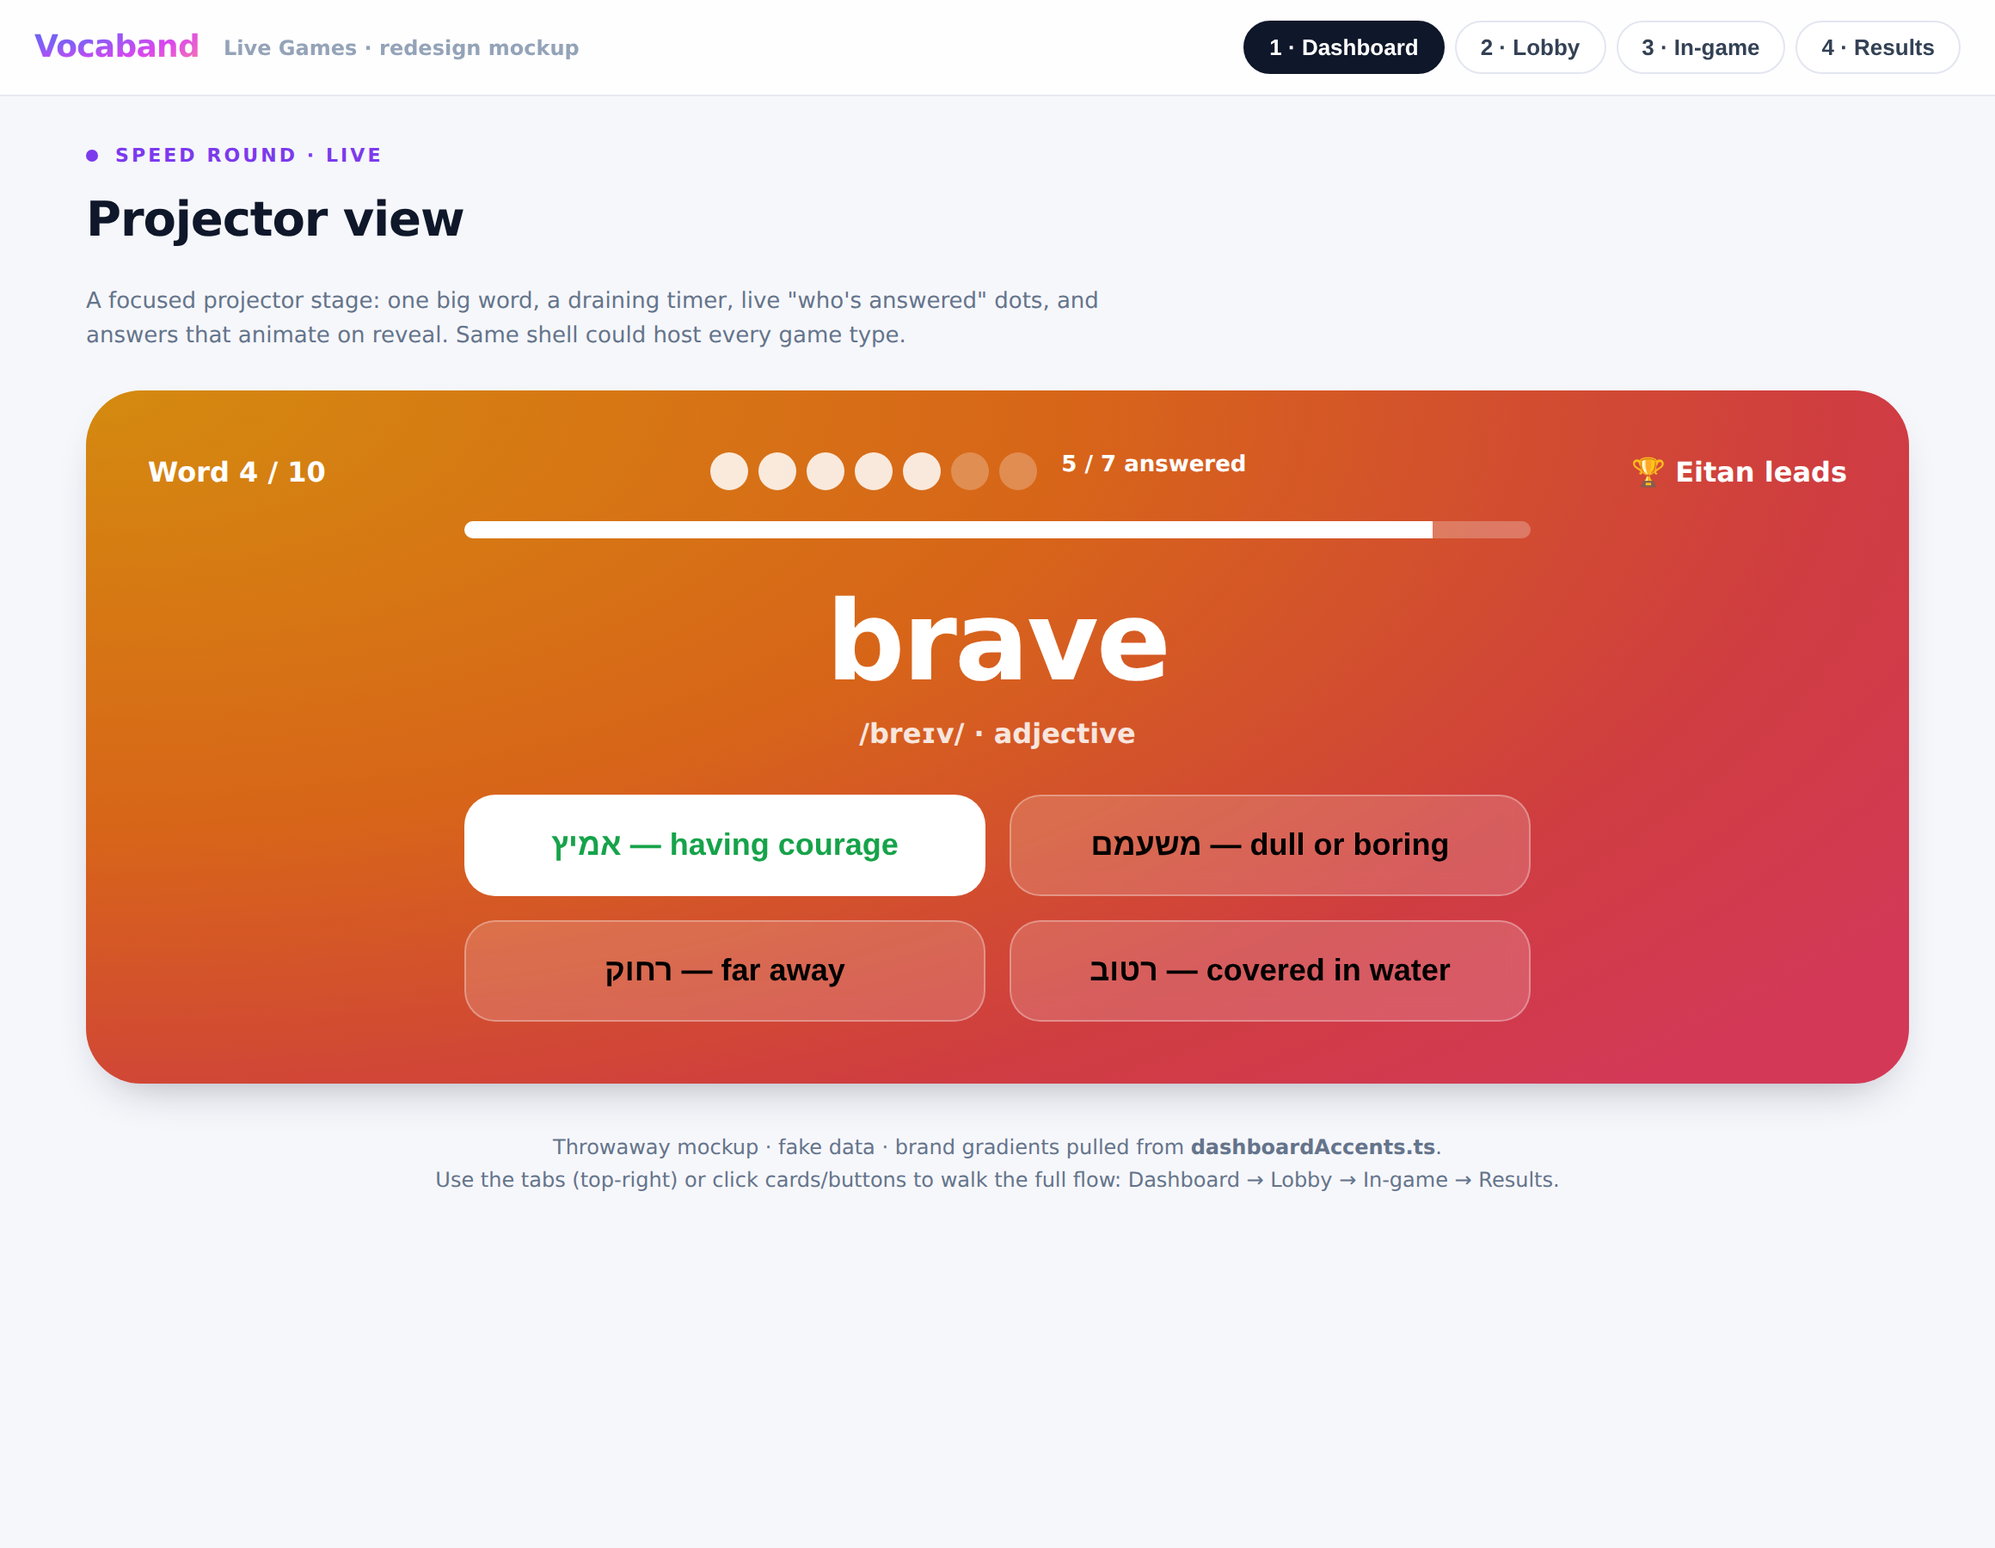
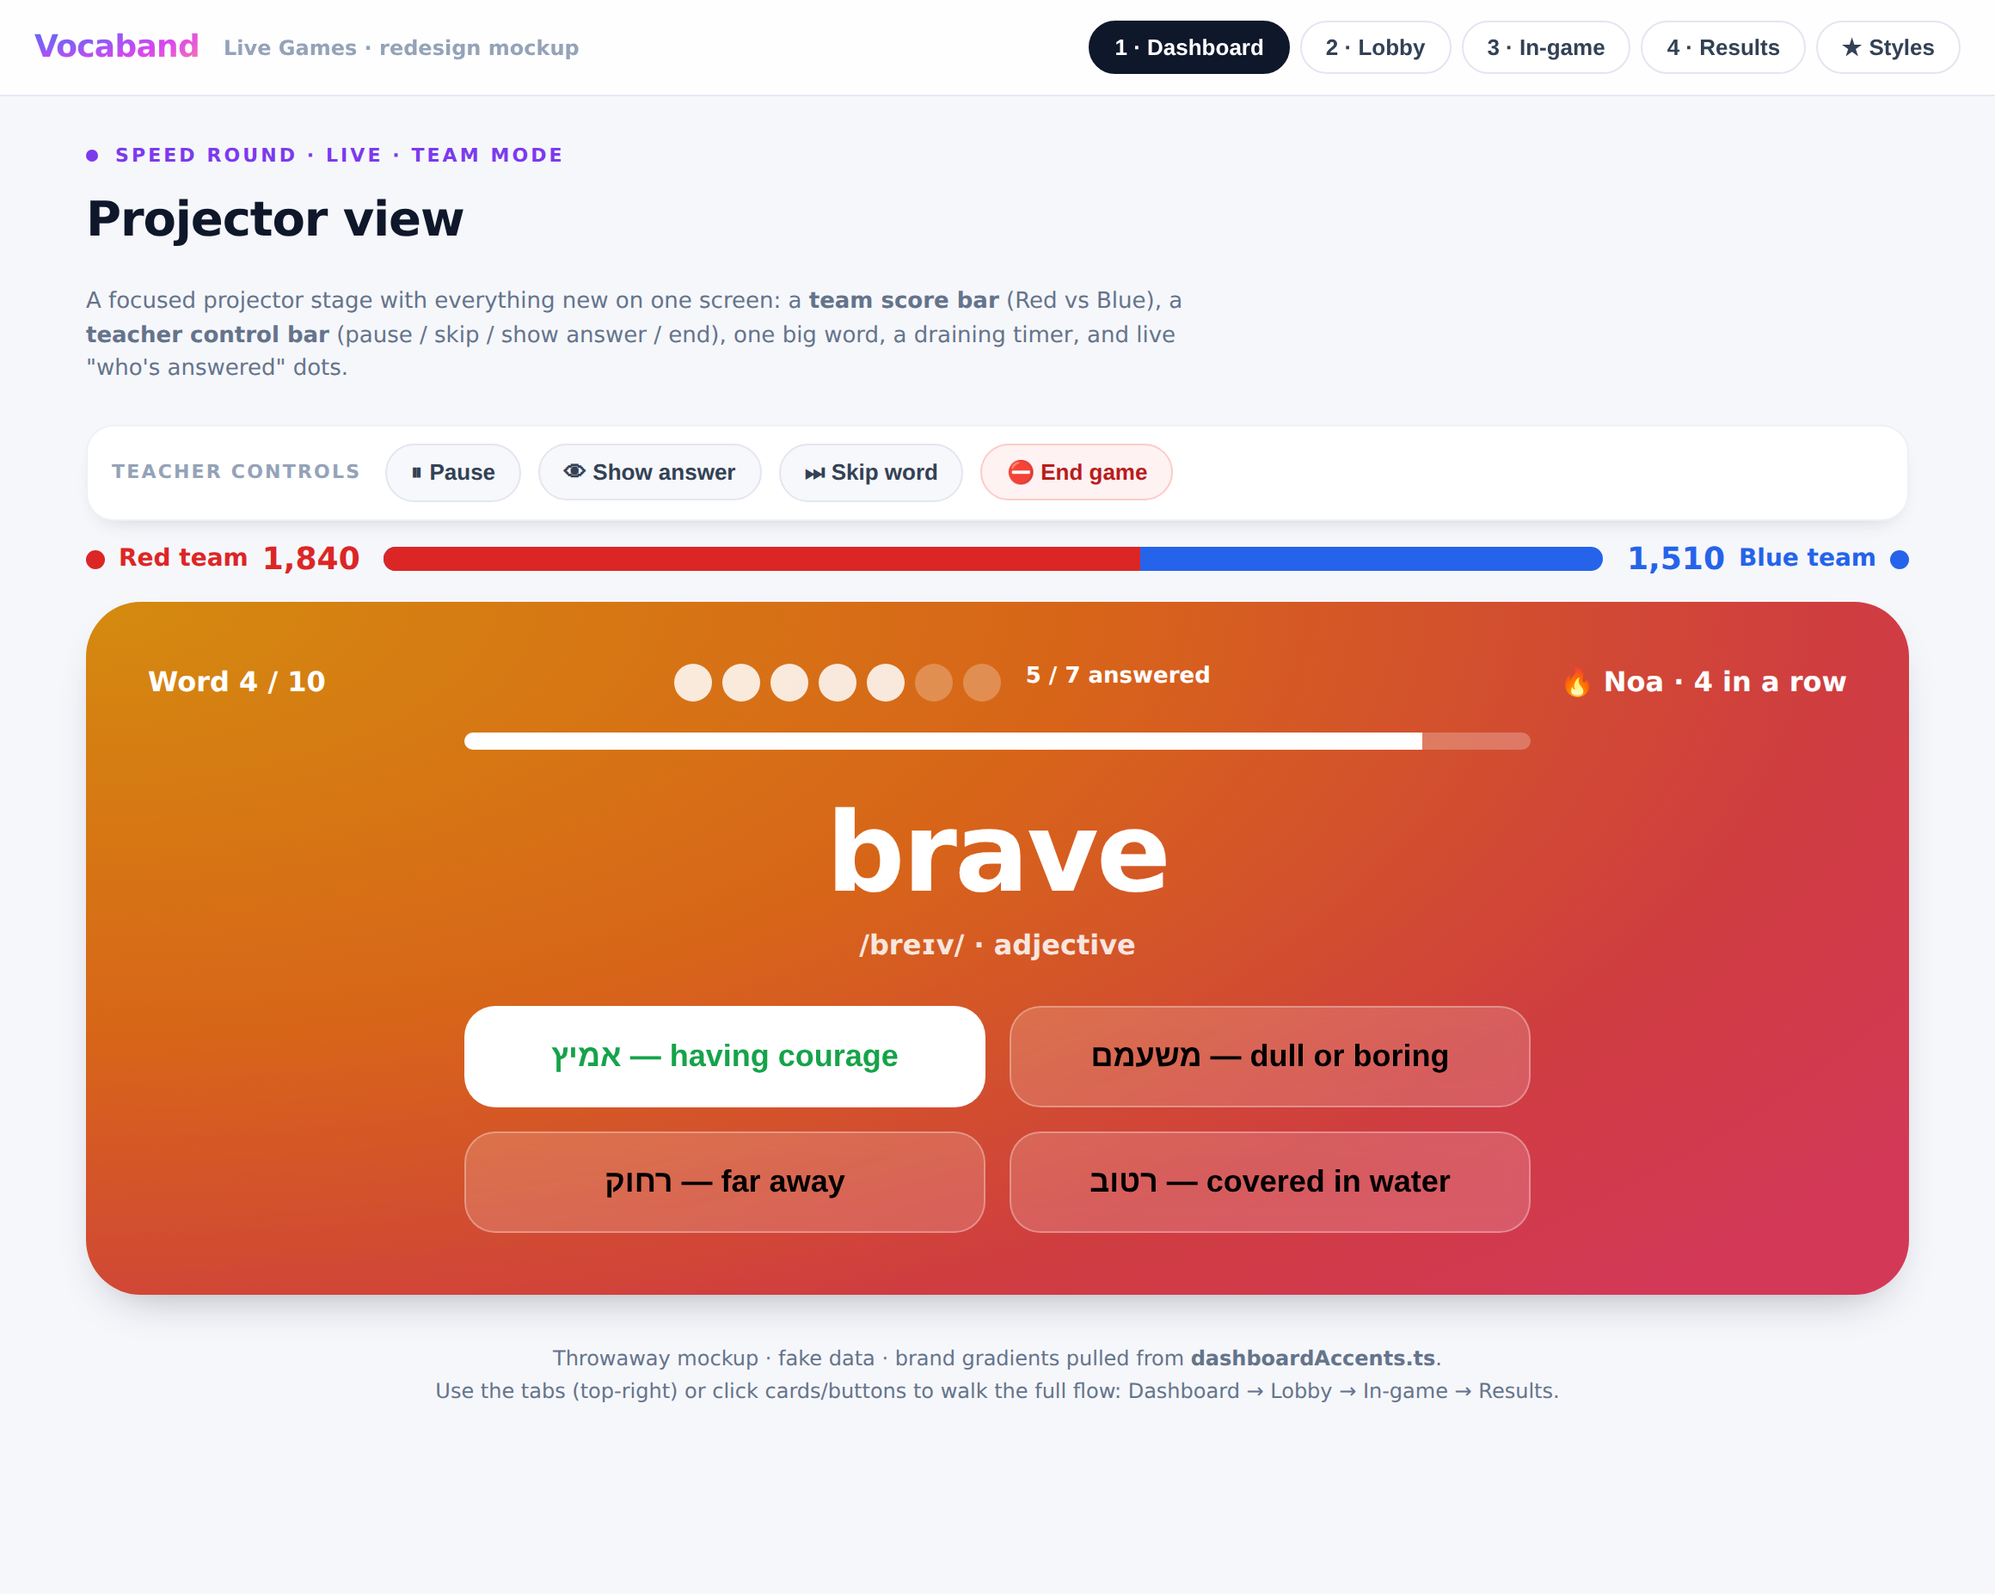
Mockup: add team mode, learning awards, teacher controls + styles gallery

diff --git a/mockups/live-games-redesign.html b/mockups/live-games-redesign.html
@@ -183,6 +183,87 @@
   .pillrow { display: flex; gap: 10px; flex-wrap: wrap; margin: 18px 0 4px; }
   .pillrow span { font-size: 12px; font-weight: 700; color: #475569; background: #fff; border: 1px solid #e3e6f0;
     padding: 7px 13px; border-radius: 999px; }
+
+  /* ── Teacher control bar ── */
+  .teacherbar { display: flex; align-items: center; gap: 10px; flex-wrap: wrap; background: #fff;
+    border: 1px solid #eef0f7; border-radius: 16px; padding: 10px 14px; margin-bottom: 12px; box-shadow: 0 6px 14px -10px rgba(15,23,42,.3); }
+  .tb-label { font-size: 11px; font-weight: 800; text-transform: uppercase; letter-spacing: .1em; color: #94a3b8; margin-right: 4px; }
+  .tb-btn { border: 1px solid #e3e6f0; background: #f7f8fc; color: #334155; font-weight: 700; font-size: 13px;
+    padding: 8px 14px; border-radius: 999px; cursor: pointer; }
+  .tb-btn:hover { background: #eef0f7; }
+  .tb-btn.danger { color: #b91c1c; border-color: #fecaca; background: #fef2f2; }
+
+  /* ── Team score bar (in-game) ── */
+  .teambar { display: flex; align-items: center; gap: 14px; margin-bottom: 14px; font-weight: 800; font-size: 14px; }
+  .team { display: flex; align-items: center; gap: 8px; white-space: nowrap; }
+  .team b { font-size: 18px; }
+  .team.red { color: #dc2626; } .team.blue { color: #2563eb; }
+  .tdot { width: 11px; height: 11px; border-radius: 999px; }
+  .team.red .tdot { background: #dc2626; } .team.blue .tdot { background: #2563eb; }
+  .teamtrack { flex: 1; height: 14px; border-radius: 999px; overflow: hidden;
+    background: linear-gradient(90deg,#2563eb,#2563eb); position: relative; }
+  .teamtrack i { display: block; height: 100%; background: #dc2626; }
+
+  /* ── Team result (results screen) ── */
+  .teamresult { display: flex; align-items: center; justify-content: center; gap: 20px; margin: 8px 0 22px; }
+  .tr-card { flex: 1; max-width: 280px; border-radius: 22px; padding: 20px; color: #fff; text-align: center; box-shadow: var(--shadow); }
+  .tr-card.red { background: linear-gradient(135deg,#ef4444,#dc2626); }
+  .tr-card.blue { background: linear-gradient(135deg,#3b82f6,#2563eb); opacity: .9; }
+  .tr-name { font-weight: 800; font-size: 16px; } .tr-score { font-weight: 900; font-size: 40px; margin: 4px 0; }
+  .tr-tag { font-weight: 700; font-size: 13px; opacity: .92; }
+  .vs { font-weight: 900; color: #94a3b8; font-size: 20px; }
+
+  /* ── Learning awards ── */
+  .awards { display: grid; grid-template-columns: repeat(3,1fr); gap: 12px; max-width: 720px; margin: 0 auto 24px; }
+  @media (max-width: 700px){ .awards{ grid-template-columns: 1fr; } }
+  .award { display: flex; align-items: center; gap: 12px; background: #fff; border: 1px solid #eef0f7;
+    border-radius: 16px; padding: 12px 14px; box-shadow: 0 6px 14px -10px rgba(15,23,42,.3); }
+  .award .aemoji { font-size: 26px; } .award b { font-size: 14px; } .award small { display: block; color: #64748b; font-size: 12px; }
+  .tinytag { font-size: 10px; font-weight: 800; padding: 2px 7px; border-radius: 999px; margin-left: 6px; vertical-align: middle; }
+  .tinytag.improved { background: #dcfce7; color: #16a34a; } .tinytag.accurate { background: #e0f2fe; color: #0284c7; }
+
+  /* ── Styles gallery ── */
+  .stylegrid { display: grid; grid-template-columns: repeat(4,1fr); gap: 16px; }
+  @media (max-width: 980px){ .stylegrid{ grid-template-columns: repeat(2,1fr); } }
+  @media (max-width: 560px){ .stylegrid{ grid-template-columns: 1fr; } }
+  .stylecol { display: flex; flex-direction: column; }
+  .styletag { font-weight: 800; font-size: 13px; margin-bottom: 10px; color: #334155; }
+  .styletag em { font-weight: 600; color: #94a3b8; font-style: normal; }
+  .styledesc { font-size: 12px; color: #64748b; margin-top: 10px; line-height: 1.45; }
+
+  /* Style B · Soft Glass */
+  .card.glass { background: #fff; border: 1px solid #ececf6; box-shadow: 0 18px 40px -24px rgba(99,102,241,.45); color: #1e293b; min-height: 220px; }
+  .card.glass .g-orb { position: absolute; top: -50px; right: -40px; width: 170px; height: 170px; border-radius: 999px;
+    background: radial-gradient(circle, rgba(139,92,246,.4), transparent 70%); filter: blur(6px); }
+  .g-frost { width: 46px; height: 46px; border-radius: 14px; display: grid; place-items: center; font-size: 22px;
+    background: linear-gradient(135deg,#ede9fe,#fae8ff); border: 1px solid #ede9fe; position: relative; }
+  .g-badge { position: relative; font-size: 11px; font-weight: 800; color: #16a34a; background: #dcfce7; padding: 5px 10px; border-radius: 999px; }
+  .g-h { position: relative; color: #0f172a; } .g-p { position: relative; color: #64748b; }
+  .g-cta { position: relative; display: flex; align-items: center; justify-content: center; margin-top: auto;
+    background: linear-gradient(135deg,#7c3aed,#d946ef); color: #fff; border-radius: 999px; padding: 11px; font-weight: 800; }
+
+  /* Style C · Arcade Neon */
+  .card.neon { background: #0b1020; border: 1px solid #1e293b; color: #e2e8f0; min-height: 220px;
+    box-shadow: 0 0 0 1px rgba(34,211,238,.15), 0 18px 40px -20px rgba(34,211,238,.4); }
+  .n-frost { width: 46px; height: 46px; border-radius: 14px; display: grid; place-items: center; font-size: 22px;
+    background: #0f1730; border: 1px solid #22d3ee; box-shadow: 0 0 16px rgba(34,211,238,.5); }
+  .n-badge { font-size: 11px; font-weight: 900; letter-spacing: .06em; color: #0b1020; background: #22d3ee; padding: 5px 10px; border-radius: 999px;
+    box-shadow: 0 0 14px rgba(34,211,238,.7); }
+  .n-h { color: #fff; text-shadow: 0 0 14px rgba(217,70,239,.7); letter-spacing: .02em; }
+  .n-p { color: #94a3b8; }
+  .n-cta { display: flex; align-items: center; justify-content: center; margin-top: auto; font-weight: 900; letter-spacing: .04em;
+    background: linear-gradient(90deg,#d946ef,#22d3ee); color: #0b1020; border-radius: 999px; padding: 11px;
+    box-shadow: 0 0 20px rgba(217,70,239,.5); }
+
+  /* Style D · Sticker */
+  .card.sticker { background: #fff7ed; border: 3px solid #0f172a; border-radius: 28px; color: #0f172a; min-height: 220px;
+    box-shadow: 8px 8px 0 0 #0f172a; }
+  .s-frost { width: 50px; height: 50px; border-radius: 16px; display: grid; place-items: center; font-size: 24px;
+    background: #fde68a; border: 3px solid #0f172a; }
+  .s-badge { font-size: 11px; font-weight: 900; color: #fff; background: #16a34a; padding: 5px 11px; border-radius: 999px; border: 2px solid #0f172a; }
+  .s-h { font-weight: 900; } .s-p { color: #57534e; font-weight: 600; }
+  .s-cta { display: flex; align-items: center; justify-content: center; margin-top: auto; font-weight: 900;
+    background: #f472b6; color: #fff; border: 3px solid #0f172a; border-radius: 999px; padding: 10px; box-shadow: 3px 3px 0 0 #0f172a; }
 </style>
 </head>
 <body>
@@ -194,6 +275,7 @@
       <button data-go="lobby">2 · Lobby</button>
       <button data-go="game">3 · In-game</button>
       <button data-go="results">4 · Results</button>
+      <button data-go="styles">★ Styles</button>
     </div>
   </div>
 
@@ -312,9 +394,25 @@
 
     <!-- ───────────── SCREEN 3 · IN-GAME ───────────── -->
     <section class="screen" id="game">
-      <div class="section-label"><span class="dot"></span> Speed Round · Live</div>
+      <div class="section-label"><span class="dot"></span> Speed Round · Live · Team mode</div>
       <div class="h1">Projector view</div>
-      <div class="caption">A focused projector stage: one big word, a draining timer, live "who's answered" dots, and answers that animate on reveal. Same shell could host every game type.</div>
+      <div class="caption">A focused projector stage with everything new on one screen: a <b>team score bar</b> (Red vs Blue), a <b>teacher control bar</b> (pause / skip / show answer / end), one big word, a draining timer, and live "who's answered" dots.</div>
+
+      <!-- Teacher control bar -->
+      <div class="teacherbar">
+        <span class="tb-label">Teacher controls</span>
+        <button class="tb-btn">⏸ Pause</button>
+        <button class="tb-btn">👁 Show answer</button>
+        <button class="tb-btn">⏭ Skip word</button>
+        <button class="tb-btn danger">⛔ End game</button>
+      </div>
+
+      <!-- Team score bar -->
+      <div class="teambar">
+        <div class="team red"><span class="tdot"></span> Red team <b>1,840</b></div>
+        <div class="teamtrack"><i style="width:62%"></i></div>
+        <div class="team blue"><b>1,510</b> Blue team <span class="tdot"></span></div>
+      </div>
 
       <div class="stage">
         <div class="veil"></div>
@@ -324,7 +422,7 @@
             <b></b><b></b><b></b><b></b><b></b><b class="off"></b><b class="off"></b>
             <span style="font-size:13px;margin-left:8px">5 / 7 answered</span>
           </div>
-          <span>🏆 Eitan leads</span>
+          <span>🔥 Noa · 4 in a row</span>
         </div>
         <div class="timerbar"><i></i></div>
         <div class="word">brave</div>
@@ -340,9 +438,23 @@
 
     <!-- ───────────── SCREEN 4 · RESULTS ───────────── -->
     <section class="screen" id="results">
-      <div class="section-label"><span class="dot"></span> Speed Round · Results</div>
-      <div class="h1">🎉 Eitan wins!</div>
-      <div class="caption">A celebratory podium + full leaderboard with XP awarded, so the round ends on a high and the teacher can drop straight into "play again" or assign the missed words.</div>
+      <div class="section-label"><span class="dot"></span> Speed Round · Results · Team mode</div>
+      <div class="h1">🏆 Red team wins!</div>
+      <div class="caption">Now the round ends on the <b>team</b> result first (so weaker kids still share the win), then everyone's podium. Plus new <b>"learning" awards</b> — longest streak and most improved — so it's not only the fastest kid who gets a moment.</div>
+
+      <!-- Team result -->
+      <div class="teamresult">
+        <div class="tr-card red"><div class="tr-name">🔴 Red team</div><div class="tr-score">1,840</div><div class="tr-tag">Winners 🎉</div></div>
+        <div class="vs">vs</div>
+        <div class="tr-card blue"><div class="tr-name">🔵 Blue team</div><div class="tr-score">1,510</div><div class="tr-tag">Great game!</div></div>
+      </div>
+
+      <!-- Learning awards -->
+      <div class="awards">
+        <div class="award"><span class="aemoji">🔥</span><div><b>Longest streak</b><small>Noa — 7 in a row</small></div></div>
+        <div class="award"><span class="aemoji">📈</span><div><b>Most improved</b><small>Lior — up from last game</small></div></div>
+        <div class="award"><span class="aemoji">🎯</span><div><b>Most accurate</b><small>Yael — 9 / 10 correct</small></div></div>
+      </div>
 
       <div class="podium">
         <div class="pod second"><div class="av">🐼</div><div class="nm">Noa</div><div class="sc">820</div><div class="rk">2</div></div>
@@ -351,8 +463,8 @@
       </div>
 
       <div class="leaders">
-        <div class="lrow"><span class="rank">4</span><div class="av">🐸</div><span class="nm">Lior</span><span class="sc">+710 XP</span></div>
-        <div class="lrow"><span class="rank">5</span><div class="av">🐯</div><span class="nm">Yael</span><span class="sc">+690 XP</span></div>
+        <div class="lrow"><span class="rank">4</span><div class="av">🐸</div><span class="nm">Lior <span class="tinytag improved">📈 improved</span></span><span class="sc">+710 XP</span></div>
+        <div class="lrow"><span class="rank">5</span><div class="av">🐯</div><span class="nm">Yael <span class="tinytag accurate">🎯 9/10</span></span><span class="sc">+690 XP</span></div>
         <div class="lrow"><span class="rank">6</span><div class="av">🐙</div><span class="nm">Omar</span><span class="sc">+640 XP</span></div>
         <div class="lrow"><span class="rank">7</span><div class="av">🦄</div><span class="nm">Tal</span><span class="sc">+600 XP</span></div>
       </div>
@@ -361,6 +473,61 @@
         <span>🔁 Play again</span>
         <span>📚 Assign the 3 missed words</span>
         <span>📊 See per-word breakdown</span>
+      </div>
+    </section>
+
+    <!-- ───────────── SCREEN 5 · STYLES GALLERY ───────────── -->
+    <section class="screen" id="styles">
+      <div class="section-label"><span class="dot"></span> Pick a look</div>
+      <div class="h1">Four different styles for the game card</div>
+      <div class="caption">Same Quick Play card, four directions. They range from your current vivid gradient to calmer and more playful looks — tell me which feels most "Vocaband" and I'll build the whole thing in that direction.</div>
+
+      <div class="stylegrid">
+        <!-- Style A: Vivid Aurora (current) -->
+        <div class="stylecol">
+          <div class="styletag">A · Vivid Aurora <em>(current)</em></div>
+          <div class="card aurora" style="cursor:default">
+            <div class="veil"></div><div class="motif"><div class="ring"></div></div>
+            <div class="row"><div class="frost">⚡</div><span class="badge live">12 playing</span></div>
+            <h3>Quick Play</h3><p>Instant join-by-code. Live in 5 seconds.</p>
+            <span class="cta aurora">Resume session →</span>
+          </div>
+          <div class="styledesc">Bold, energetic, colour-forward. Great for grabbing attention.</div>
+        </div>
+
+        <!-- Style B: Soft Glass (light minimal) -->
+        <div class="stylecol">
+          <div class="styletag">B · Soft Glass <em>(calm, modern)</em></div>
+          <div class="card glass" style="cursor:default">
+            <div class="g-orb"></div>
+            <div class="row"><div class="g-frost">⚡</div><span class="g-badge">● 12 playing</span></div>
+            <h3 class="g-h">Quick Play</h3><p class="g-p">Instant join-by-code. Live in 5 seconds.</p>
+            <span class="g-cta">Resume session →</span>
+          </div>
+          <div class="styledesc">White & airy with a tint of colour. Looks premium, less "loud".</div>
+        </div>
+
+        <!-- Style C: Arcade Neon (dark) -->
+        <div class="stylecol">
+          <div class="styletag">C · Arcade Neon <em>(playful, dark)</em></div>
+          <div class="card neon" style="cursor:default">
+            <div class="row"><div class="n-frost">⚡</div><span class="n-badge">12 PLAYING</span></div>
+            <h3 class="n-h">QUICK PLAY</h3><p class="n-p">Instant join-by-code. Live in 5 seconds.</p>
+            <span class="n-cta">RESUME ▸</span>
+          </div>
+          <div class="styledesc">Game-show energy. Feels like an arcade — kids love it, bold choice.</div>
+        </div>
+
+        <!-- Style D: Sticker / chunky -->
+        <div class="stylecol">
+          <div class="styletag">D · Sticker <em>(friendly, grades 4-6)</em></div>
+          <div class="card sticker" style="cursor:default">
+            <div class="row"><div class="s-frost">⚡</div><span class="s-badge">12 playing</span></div>
+            <h3 class="s-h">Quick Play</h3><p class="s-p">Instant join-by-code. Live in 5 seconds.</p>
+            <span class="s-cta">Resume session →</span>
+          </div>
+          <div class="styledesc">Rounded, chunky, cartoon-friendly. Warmest for younger kids.</div>
+        </div>
       </div>
     </section>
 
